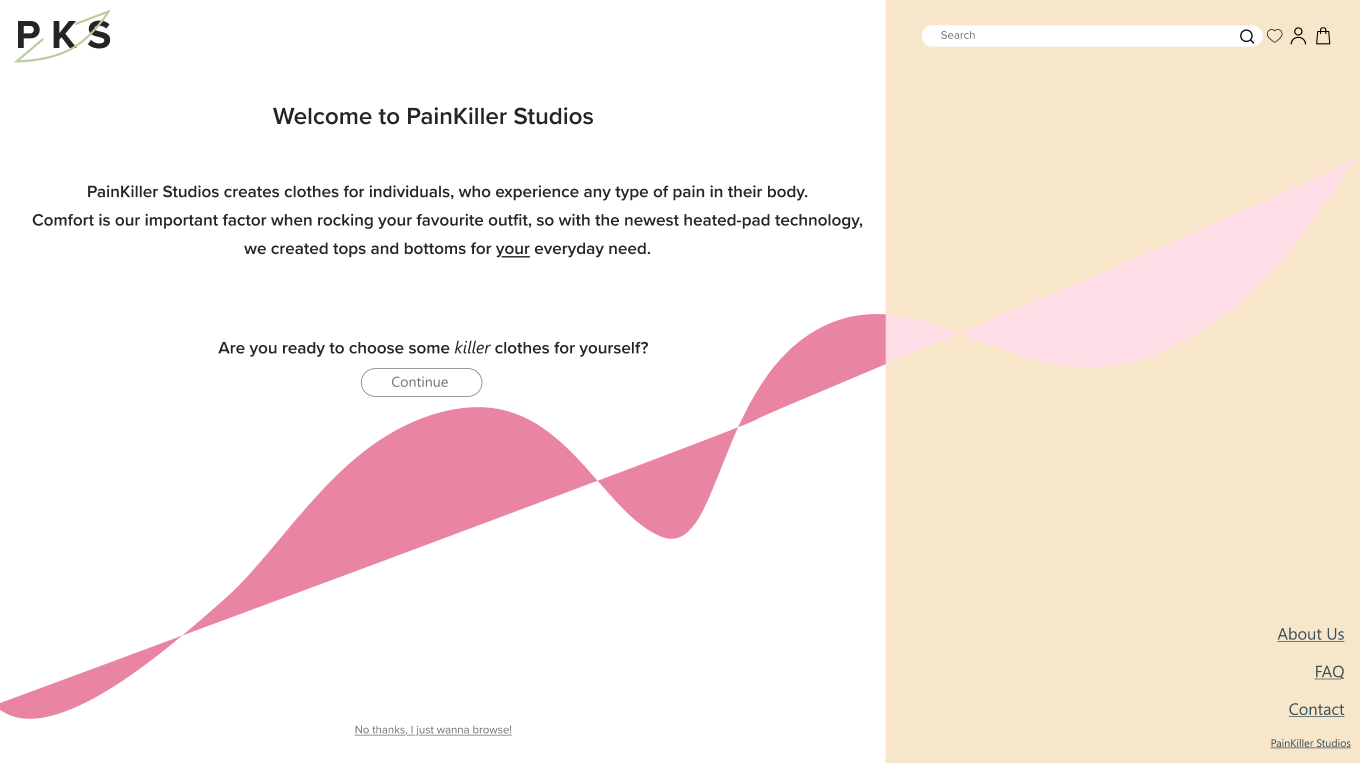
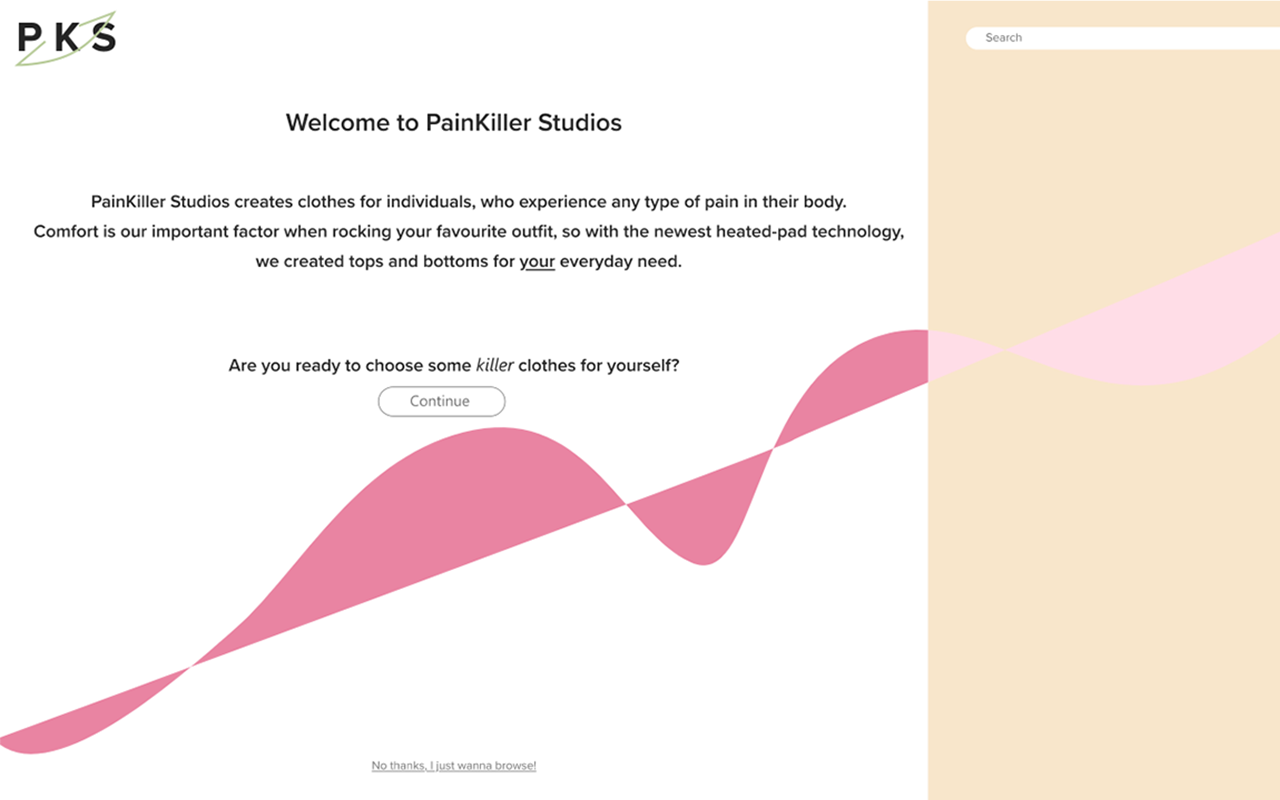
webp

diff --git a/semesteropgaver.html b/semesteropgaver.html
@@ -11,7 +11,7 @@
 <body>
     <header>
         <nav class="navbar">
-            <a href="index.html" class="nav_logo"><img src="pics/emmotive_logo_color.png"></a>
+            <a href="index.html" class="nav_logo"><img src="pics/emmotive_logo_color.webp"></a>
 
             <ul class="nav_menu">
                 <li class="nav_item">
@@ -59,19 +59,19 @@
         </div>
         <div>
             <div class="section tema2">
-                <a href="tema2.html"><img src="tema5"></a>
+                <a href="tema2.html"><img src="pics/tema2_01website.webp"></a>
                 <h3>Her er Tema 2</h3>
             </div>
             <div class="section tema3">
-                <a href="tema3.html"><img src="pics/tema3.png"></a>
+                <a href="tema3.html"><img src="pics/tema3.webp"></a>
                 <h3>Her er Tema 3</h3>
             </div>
             <div class="section tema4">
-                <a href="tema4.html"><img src="tema4"></a>
+                <a href="tema4.html"><img src="pics/tema4.webp"></a>
                 <h3>Her er Tema 4</h3>
             </div>
             <div class="section tema5">
-                <a href="tema5.html"><img src="tema5"></a>
+                <a href="tema5.html"><img src="pics/tema5_01pilot.webp"></a>
                 <h3>Her er Tema 5</h3>
             </div>
         </div>

diff --git a/shared.css b/shared.css
@@ -29,7 +29,7 @@ body{
     background-color: #131313;
     background-image: url("pics/backgroundartweb.png"), url("pics/backgroundartweb.png");
     background-repeat: no-repeat, no-repeat;
-    background-size: cover, cover;
+    background-size: contain, contain;
     background-position: 10px 0px, -50px 700px;
 }    
 
@@ -222,8 +222,8 @@ footer{
     body{
         background-image: url("pics/backgroundartmobile.png"), url("pics/backgroundartmobile.png");
         background-repeat: no-repeat, no-repeat;
-        background-size: cover, cover;
-        background-position: 20px 120px, -20px 700px;
+        background-size: contain, contain;
+        background-position: 20px 120px, -5px 700px;
     }
     .section{
         margin-block: 15%;

diff --git a/index.html b/index.html
@@ -11,7 +11,7 @@
 <body>
     <header>
         <nav class="navbar">
-            <a href="index.html" class="nav_logo"><img src="pics/emmotive_logo_color.png"></a>
+            <a href="index.html" class="nav_logo"><img src="pics/emmotive_logo_color.webp"></a>
 
             <ul class="nav_menu">
                 <li class="nav_item">

diff --git a/om_mig.html b/om_mig.html
@@ -11,7 +11,7 @@
 <body>
     <header>
         <nav class="navbar">
-            <a href="index.html" class="nav_logo"><img src="pics/emmotive_logo_color.png"></a>
+            <a href="index.html" class="nav_logo"><img src="pics/emmotive_logo_color.webp"></a>
 
             <ul class="nav_menu">
                 <li class="nav_item">

diff --git a/tema2.html b/tema2.html
@@ -10,7 +10,7 @@
 <body>
     <header>
         <nav class="navbar">
-            <a href="index.html" class="nav_logo"><img src="pics/emmotive_logo_color.png"></a>
+            <a href="index.html" class="nav_logo"><img src="pics/emmotive_logo_color.webp"></a>
 
             <ul class="nav_menu">
                 <li class="nav_item">

diff --git a/tema3.html b/tema3.html
@@ -10,7 +10,7 @@
 <body>
     <header>
         <nav class="navbar">
-            <a href="index.html" class="nav_logo"><img src="pics/emmotive_logo_color.png"></a>
+            <a href="index.html" class="nav_logo"><img src="pics/emmotive_logo_color.webp"></a>
 
             <ul class="nav_menu">
                 <li class="nav_item">

diff --git a/tema4.html b/tema4.html
@@ -10,7 +10,7 @@
 <body>
     <header>
         <nav class="navbar">
-            <a href="index.html" class="nav_logo"><img src="pics/emmotive_logo_color.png"></a>
+            <a href="index.html" class="nav_logo"><img src="pics/emmotive_logo_color.webp"></a>
 
             <ul class="nav_menu">
                 <li class="nav_item">

diff --git a/tema5.html b/tema5.html
@@ -10,7 +10,7 @@
 <body>
     <header>
         <nav class="navbar">
-            <a href="index.html" class="nav_logo"><img src="pics/emmotive_logo_color.png"></a>
+            <a href="index.html" class="nav_logo"><img src="pics/emmotive_logo_color.webp"></a>
 
             <ul class="nav_menu">
                 <li class="nav_item">
